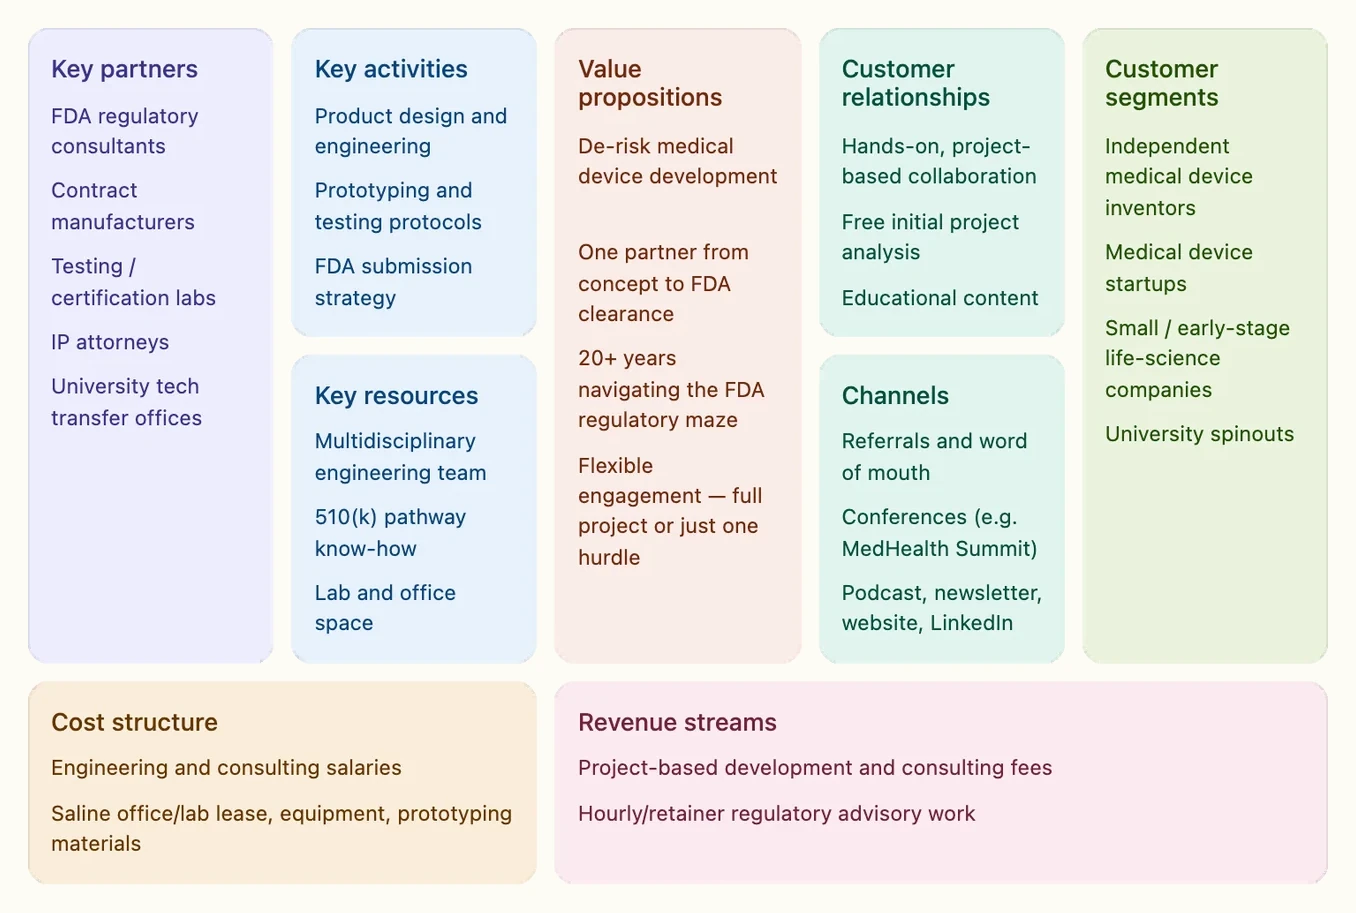
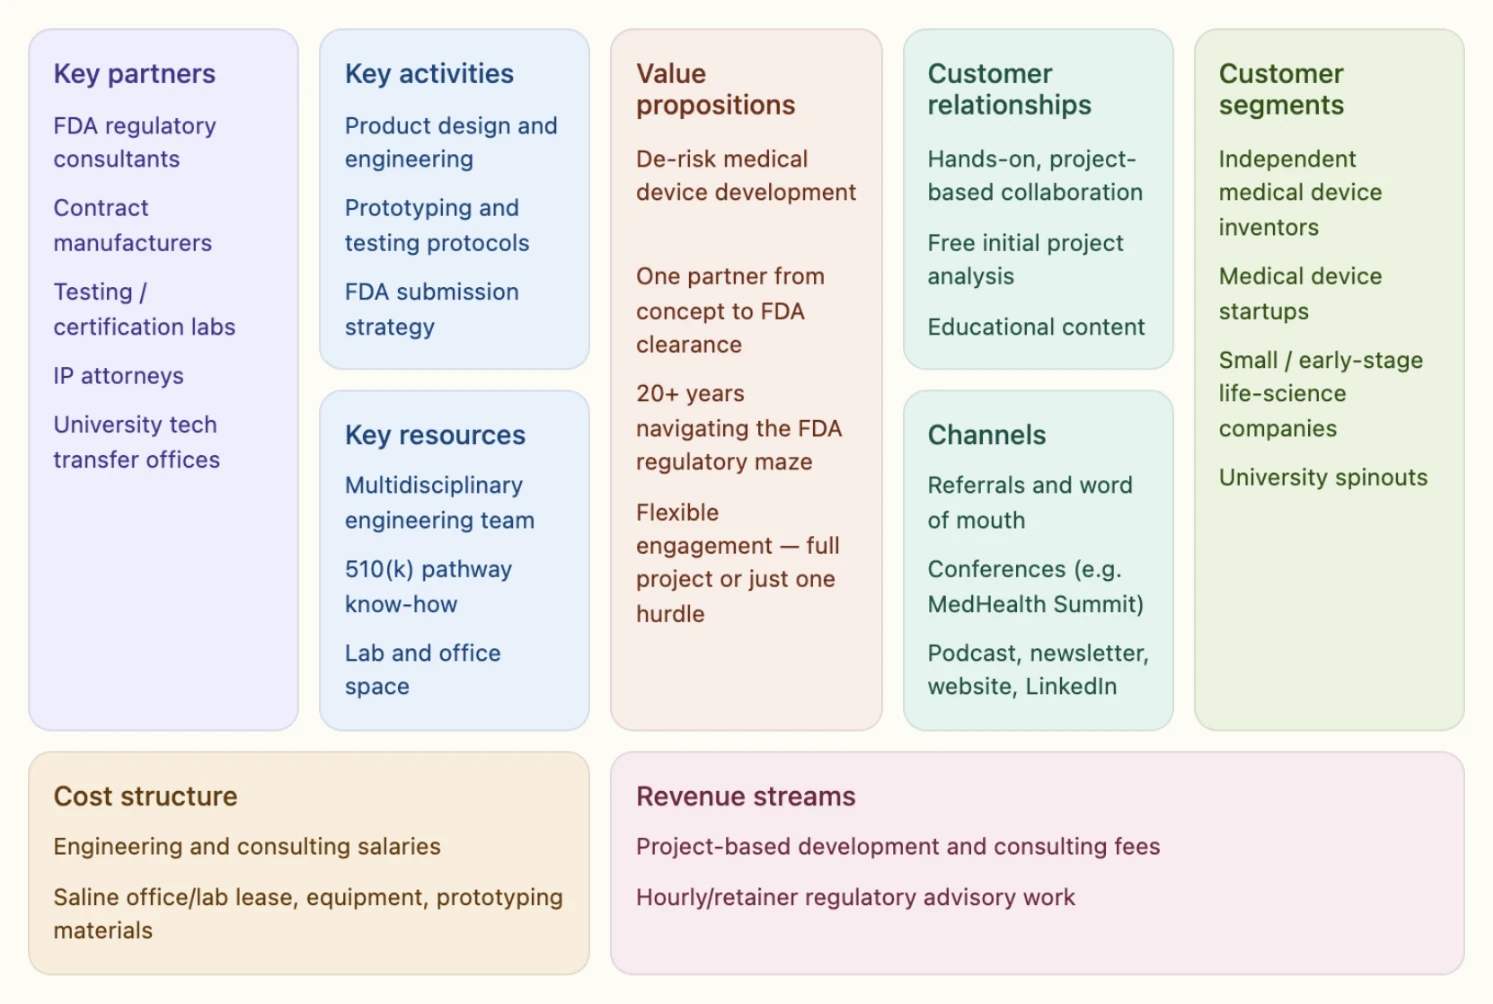
in2being: re-cut the Business Model Canvas from the original
Claude-Session: https://claude.ai/code/session_01BJMedRJjvUccCTf8evJGbz

diff --git a/in2being.html b/in2being.html
@@ -162,7 +162,7 @@
     <div class="subblock">
       <h3>Was it only a messaging problem?</h3>
       <p>To find out, I mapped the business itself: a Business Model Canvas, SWOT, competitive analysis and client segmentation. It wasn't only messaging.</p>
-      <figure class="shot narrow"><span class="shot-mat"><img src="images/cs-in2-bmc.webp" alt="Business Model Canvas for in2being, covering key partners, activities, resources, value propositions, customer relationships, channels, customer segments, cost structure and revenue streams." width="1356" height="913" loading="lazy"></span><figcaption>Proposed Business Model Canvas, built from public sources. The team may weight it differently.</figcaption></figure>
+      <figure class="shot narrow"><span class="shot-mat"><img src="images/cs-in2-bmc.webp" alt="Business Model Canvas for in2being, covering key partners, activities, resources, value propositions, customer relationships, channels, customer segments, cost structure and revenue streams." width="1493" height="1004" loading="lazy"></span><figcaption>Proposed Business Model Canvas, built from public sources. The team may weight it differently.</figcaption></figure>
     </div>
   </section>
 
